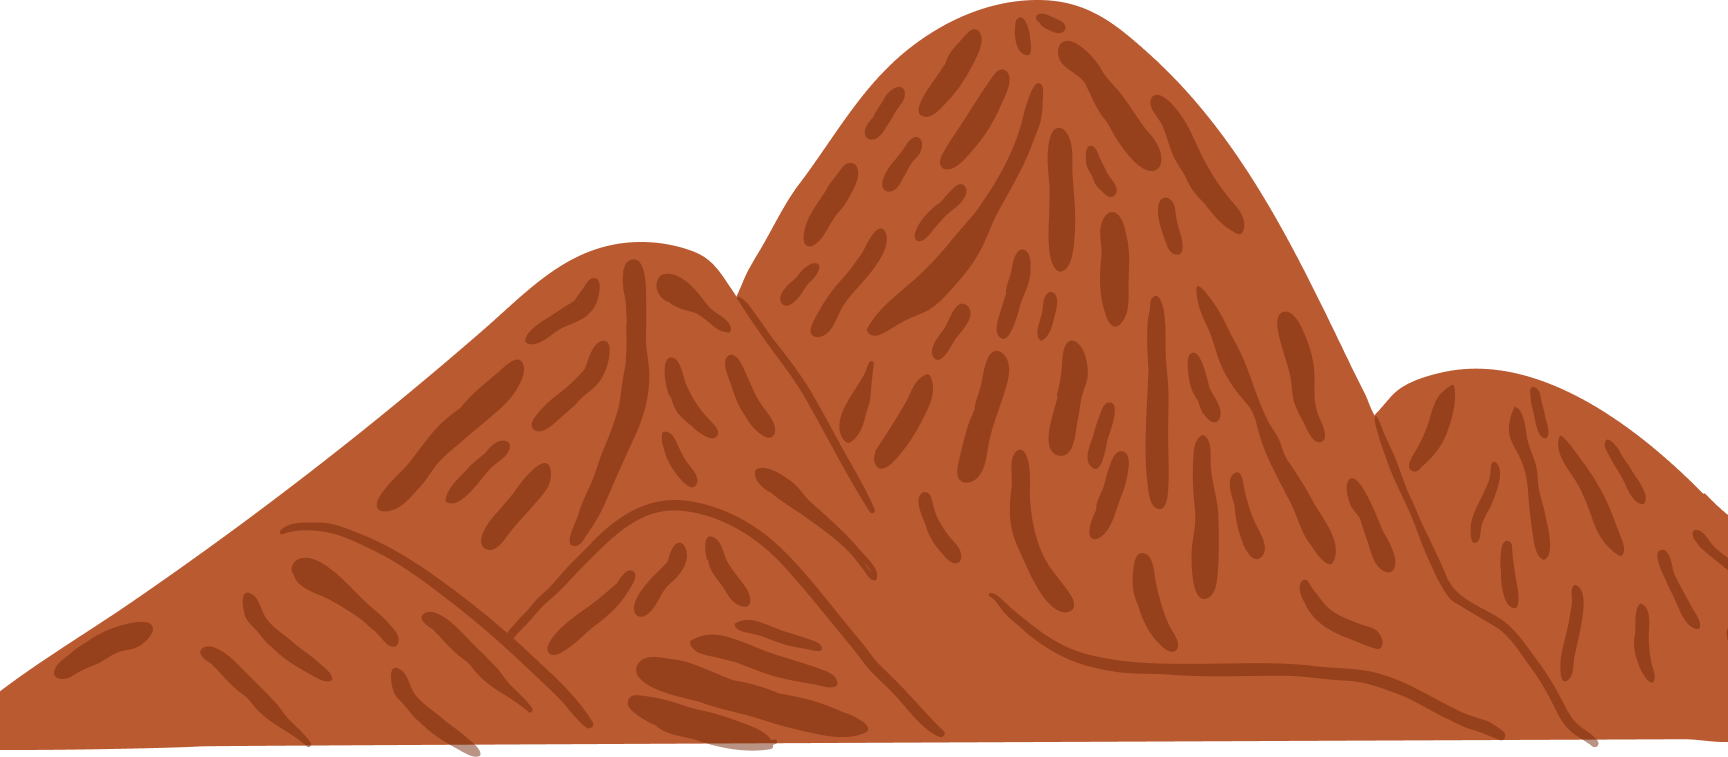
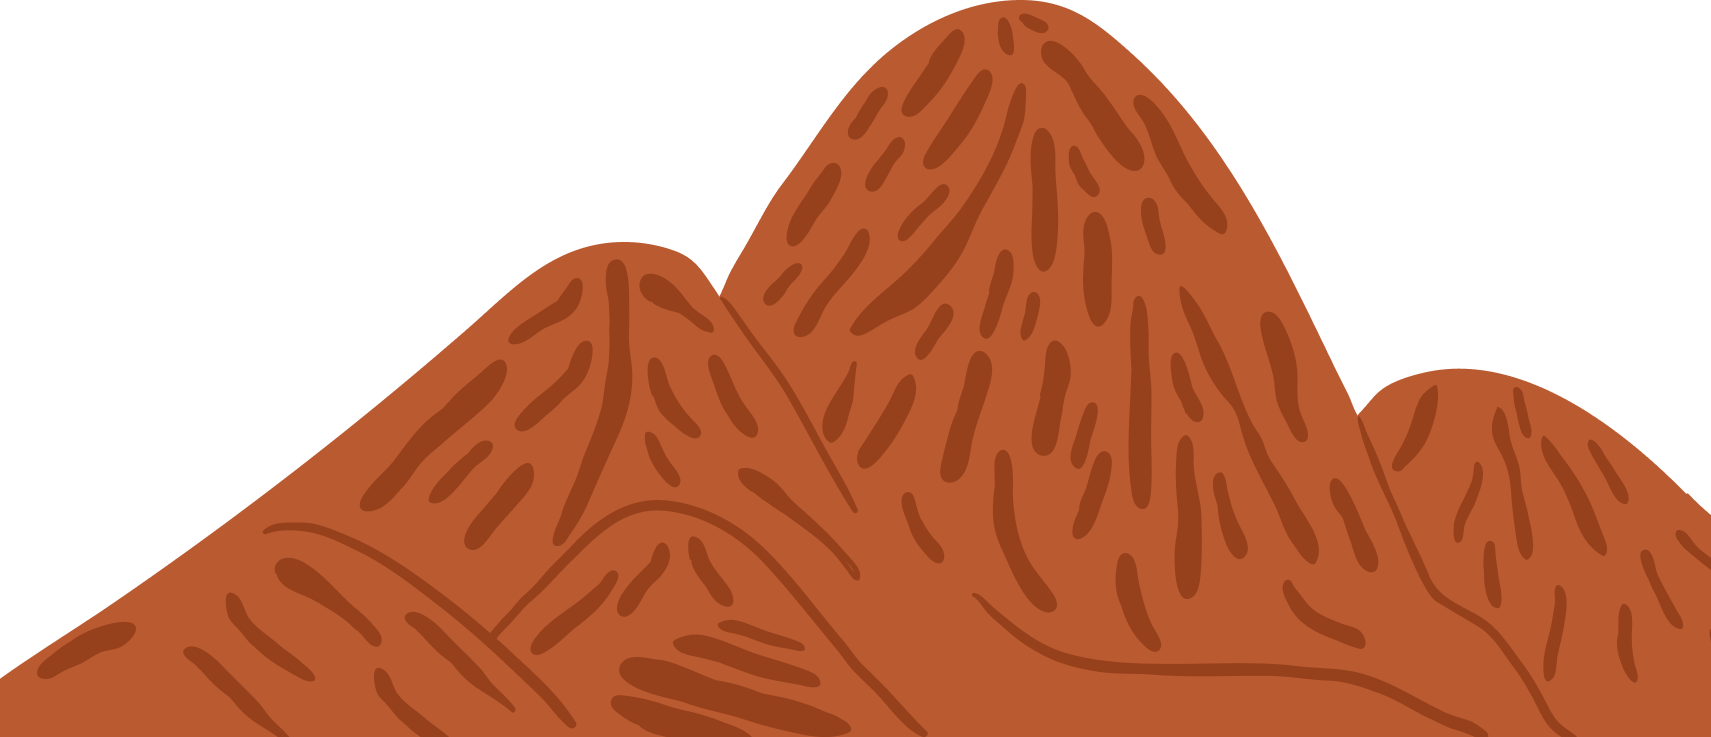
[ADD]Hero responsiveness

diff --git a/src/app/globals.css b/src/app/globals.css
@@ -55,10 +55,19 @@ p {
   white-space: pre-line;
 }
 
+
+/* HERO COMPONENT */
+.heroContainer {
+  min-height: 100vh;
+  display: flex;
+  flex-direction: column;
+  background: var(--hero-background);
+}
+
 /* NAVBAR */
 .navBar {
-  height: 12vh;
-  min-height: 130px;
+  height: 10vh;
+  min-height: 70px;
 }
 
 .navbarButton {
@@ -68,48 +77,34 @@ p {
   padding: 0;
 }
 
-/* HERO */
-.heroContainer {
-  min-height: 100vh;
-  display: flex;
-  flex-direction: column;
-  background: var(--hero-background);
-}
-
-.homeBgd {
-  height: 85%;
+/* PARALLAX */
+.parallaxContainer {
+  position: relative;
   width: 100%;
-  position: relative;
-  display: flex;
-  align-items: center;
-}
-
-.hero {
-  position: relative;
-  flex: 1;
+  height: 90vh;
   overflow: hidden;
 }
 
-.mountainBack {
-  min-height: auto;
-  width: 100%;
+.mountainBack,
+.mountainFront {
   position: absolute;
-  display: block;
-  object-fit: cover;
-  /* padding-top: 20%; */
+  bottom: 0;
+  left: 0;
+  width: 100%;
+  height: auto;
+  object-fit: contain;
 }
 
-.mountainFront {
-  height: auto;
-  width: 100%;
-  position: absolute;
-  top: 20%;
+.parallaxLayer {
+  position: absolute !important;
+  inset: 0;
 }
 
 .heroSun {
   width: 10%;
   position: absolute;
   right: 6%;
+  top: 3%;
   transition: transform 0.50s ease;
 }
 
@@ -643,11 +638,22 @@ form button:active {
   p {
     font-size: 15px;
   }
+  
+  .heroSun {
+    left: 6%;
+    top: auto;
+    bottom: 300px;
+  }
+  
+  .heroLlama {
+    bottom: 0.5%;
+  }
 
   .heroText {
-    position: absolute;
-    top: -3%;
-    left: 10%;
+    top: 25%;
+    left: 50%;
+    transform: translate(-50%);
+    text-align: center;
   }
 
   /* ABOUT CONTAINER */
@@ -735,10 +741,23 @@ form button:active {
     font-size: 15px;
   }
 
+  .heroSun {
+    left: 6%;
+    /* top: clamp(60%, 65vw, 80%); */
+    top: auto;
+    bottom: 200px;
+  }
+  
+  .heroLlama {
+    bottom: 0.5%;
+  }
+
   .heroText {
-    position: absolute;
-    top: -3%;
-    left: 20%;
+    width: 80vw;
+    top: 25%;
+    left: 50%;
+    transform: translate(-50%);
+    text-align: center;
   }
 
   .splitter {

diff --git a/src/app/components/ParallaxHero.jsx b/src/app/components/ParallaxHero.jsx
@@ -7,15 +7,15 @@ const ParallaxHero = () => {
   const t = useTranslations("Hero");
 
   return (
-    <section className="hero">
-      <Parallax speed={-12}>
+    <section className="parallaxContainer">
+      <Parallax speed={-17} className="parallaxLayer">
         <img
           src="hero/mountain-back.png"
           className="mountainBack"
         />
       </Parallax>
 
-      <Parallax speed={-14}>
+      <Parallax speed={0} className="parallaxLayer">
         <img
           src="hero/mountain-front.png"
           className="mountainFront"
@@ -24,12 +24,10 @@ const ParallaxHero = () => {
 
       <img src="sun.png" className="heroSun"></img>
 
-      <Parallax speed={-5}>
-        <div className="heroText">
-          <h1>{t("homeTitle")}</h1>
-          <p>{t("homeDescription")}</p>
-        </div>
-      </Parallax>
+      <div className="heroText">
+        <h1>{t("homeTitle")}</h1>
+        <p>{t("homeDescription")}</p>
+      </div>
 
       <img src="hero/hero-llama.png" className="heroLlama"></img>
     </section>

diff --git a/src/app/components/Home.jsx b/src/app/components/Home.jsx
@@ -1,7 +1,7 @@
 "use client";
 
 import NavBar from "./Navbar";
-import ParallaxHero from "./ParallaxBanner";
+import ParallaxHero from "./ParallaxHero";
 
 const Home = () => {
     return (
